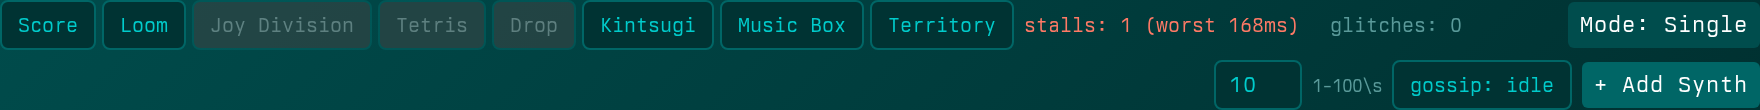
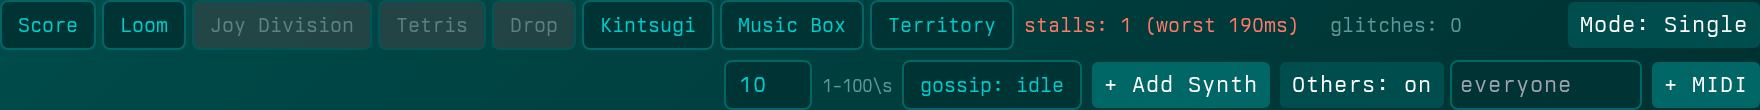
Document the keyboard, and release it as 0.10.0
The guide gains a last section, after presets, because the keyboard is the
one part of this app that does not listen. It says what a note actually
is, that you will not hear a key when you press it, that the instrument
belongs to nobody, and what Play as buys you — which is not identity for
its own sake but the thing that lets your sound travel with your notes.

The second row's section gains the two controls beside + MIDI. Others is
described where the reader meets it rather than in the MIDI section,
since it governs what you hear whether or not you ever plug a keyboard in.

MINOR by the rule in the README: settings keys were added with sensible
defaults and nothing was renamed or repurposed, so a preset written by
0.9.0 sounds the same here.

Only two screenshots are committed. A full capture run rewrites all
twenty-two, but the other twenty differ only in font rendering — this
machine's Chromium against whoever captured them last — and the presets
modal cannot have been changed by any of this work. Committing them would
be twenty binary files of noise around the two that mean something.

Claude-Session: https://claude.ai/code/session_01F3U3qYRnw6NPt5BRj81S9X

diff --git a/SOA/projects/SOA-frontend/src/legacy/guide-sections.js b/SOA/projects/SOA-frontend/src/legacy/guide-sections.js
@@ -68,7 +68,12 @@ export const GUIDE_SECTIONS = [
       <p>The named buttons on the left open <strong>visualizations</strong> — full-screen
       pictures of the same data you're hearing. More on those below.</p>
       <p><strong>+ Add Synth</strong> on the right adds an empty synth card. That's where
-      you start when building your own.</p>
+      you start when building your own. <strong>+ MIDI</strong> beside it adds a keyboard
+      card — see the last section.</p>
+      <p><strong>Others</strong> decides whether you hear other people playing that
+      keyboard, each in the sound they designed. The box next to it narrows a crowded
+      session down to one player: paste an address or type a <code>name.algo</code>.
+      Leave it blank to hear everyone.</p>
       <p><strong>gossip:</strong> is the connection light — <em>idle</em> before you
       start, <em>open</em> when transactions are flowing.</p>
       <p><strong>Mode</strong> decides what happens when one synth is being triggered
@@ -450,6 +455,38 @@ export const GUIDE_SECTIONS = [
       match. Copy the URL and whoever opens it lands on the same layout. Presets saved
       only in your own browser have no URL — copy them out as <code>.json</code>, or mint
       them, to pass them on.</p>
+    `,
+  },
+
+  {
+    id: '21-midi',
+    title: 'Playing it yourself',
+    selector: '.mini-synth:not(.master-synth)',
+    state: 'midi',
+    body: `
+      <p>Everything else here listens. This card plays. Plug in a MIDI keyboard, pick it
+      under <strong>Device</strong>, and every key you press becomes a real Algorand
+      transaction — a zero-amount transfer of an asset that doesn't exist, where the
+      asset ID is the note and how hard you hit it.</p>
+      <p>You won't hear a key when you press it. You'll hear it when it comes back to
+      you out of the mempool, most of a second later, and gossip makes no promise about
+      the order. That delay is the instrument. Slow, spread-out, chordal playing sounds
+      like you meant it; fast runs come back scrambled.</p>
+      <p>The keyboard belongs to nobody. It's an escrow account with no private key,
+      holding a program that will only ever sign one shape of transaction, so anyone who
+      has it can play — at the same time as you, with no server in between. Each note
+      costs the minimum fee, 0.001 ALGO, out of that shared balance.</p>
+      <p><strong>Play as</strong> is how anyone tells your playing apart from anyone
+      else's. An address or a <code>name.algo</code>; it goes on every note and costs
+      nothing, because a zero-amount transfer never touches the account it's sent to.
+      Leave it empty to play anonymously — but then your sound can't travel, since
+      there's no name to attach it to.</p>
+      <p>If you have filled it in, your sound travels with you. Every note carries your
+      whole patch in its note field, which is free space on a transaction you're already
+      paying for, so anyone listening hears your notes voiced the way you built them —
+      and hears a change on your very next keypress. The same is true in reverse: turn
+      <strong>Others</strong> on and up to four other players get their own voice on
+      your machine.</p>
     `,
   },
 ]

diff --git a/SOA/projects/SOA-frontend/src/legacy/changelog.js b/SOA/projects/SOA-frontend/src/legacy/changelog.js
@@ -7,6 +7,19 @@ import { APP_VERSION } from './app-version.js'
 // version string, commit, tag. The console warning below fires if the two drift.
 export const CHANGELOG = [
   {
+    version: '0.10.0',
+    date: '2026-08-19',
+    highlights: [
+      'A MIDI keyboard you can play into the mempool: + MIDI in the second row. Every key becomes a real transaction, and you hear it when it comes back — the delay is the instrument.',
+      'The keyboard belongs to nobody. It is an escrow with no private key, so several people can play the same one at once, with no server in between.',
+      'Your patch travels with your notes, so other players hear you in the sound you designed. Others in the second row turns that on, and narrows a session to one player.',
+      'Addresses accept NFDs — type hampelman.algo instead of pasting 58 characters.',
+      'Synth cards can be reordered, by dragging the grab strip under the header or with the keyboard. The order is part of the layout, so a preset keeps it.',
+      'Every control you can reach by Tab now has a focus ring you can see.',
+      'Fixed: transactions signed by a logic signature or a multisig could be mistaken for duplicates of each other and dropped before they were heard.',
+    ],
+  },
+  {
     version: '0.9.0',
     date: '2026-07-26',
     // Keep these short — they're read in a one-line banner as often as in the modal.

diff --git a/README.md b/README.md
@@ -27,6 +27,10 @@ sonifier works as soon as the page loads — press **Start**.
   and an LFO with several destinations.
 - **Visualizations** — Score, Territory and others render the same traffic
   you're hearing, full-screen, while it plays.
+- **A keyboard you can play** — plug in a MIDI device and each key becomes a
+  real transaction, heard when it comes back out of the mempool. The instrument
+  is a keyless escrow, so several people can play the same one at once, each in
+  the sound they designed. See `SOA/projects/SOA-frontend/tools/midi/`.
 - **Presets** — save and load whole layouts, locally, as a `.json`, or minted
   on-chain as an NFPreset. Loading a shipped preset or an NFPreset puts it in
   the address bar, so copying the URL is all it takes to share it.
